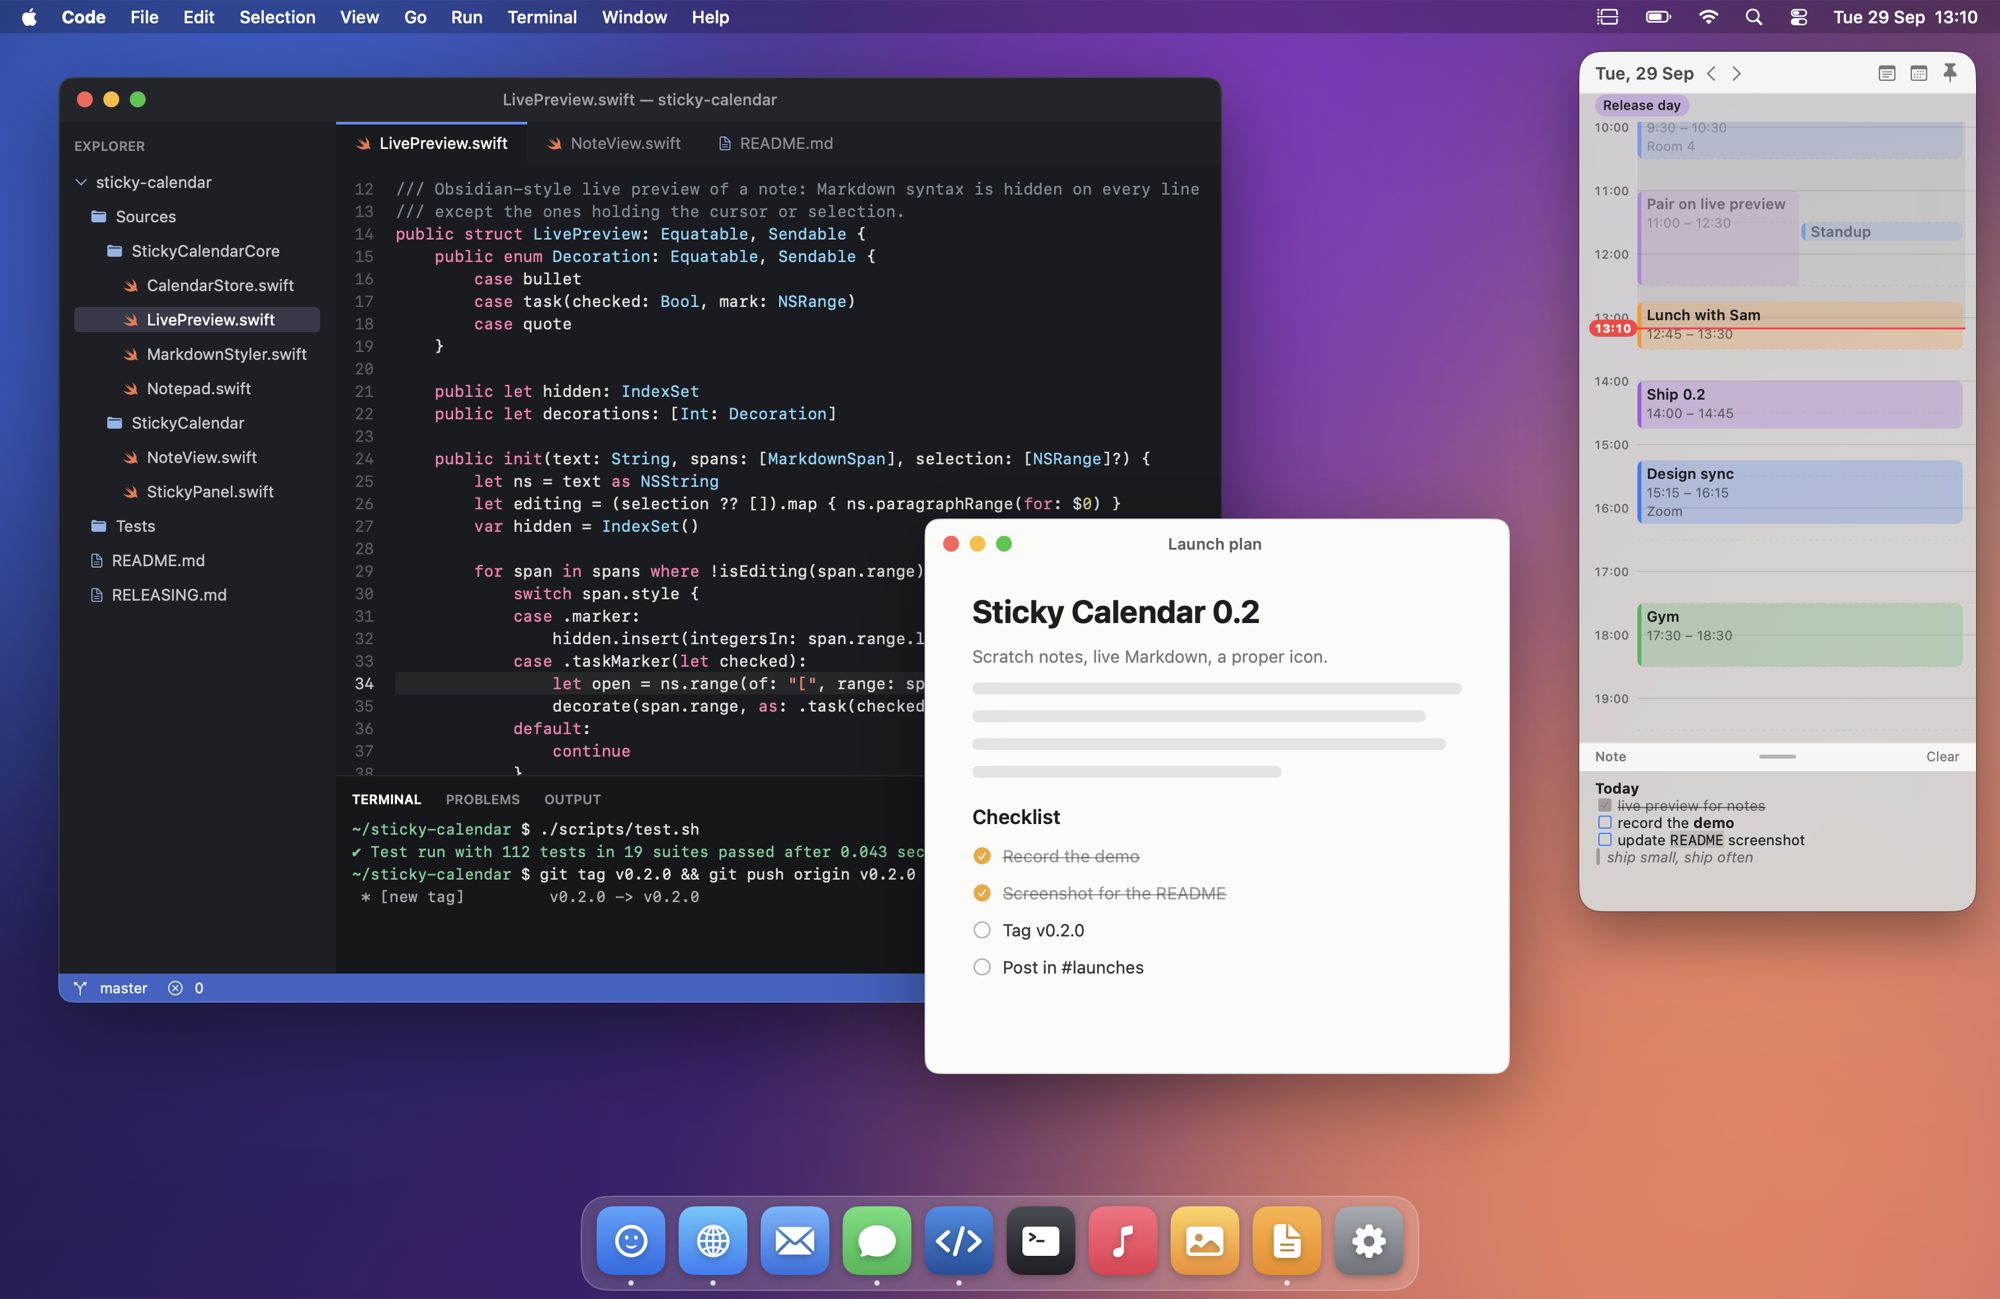
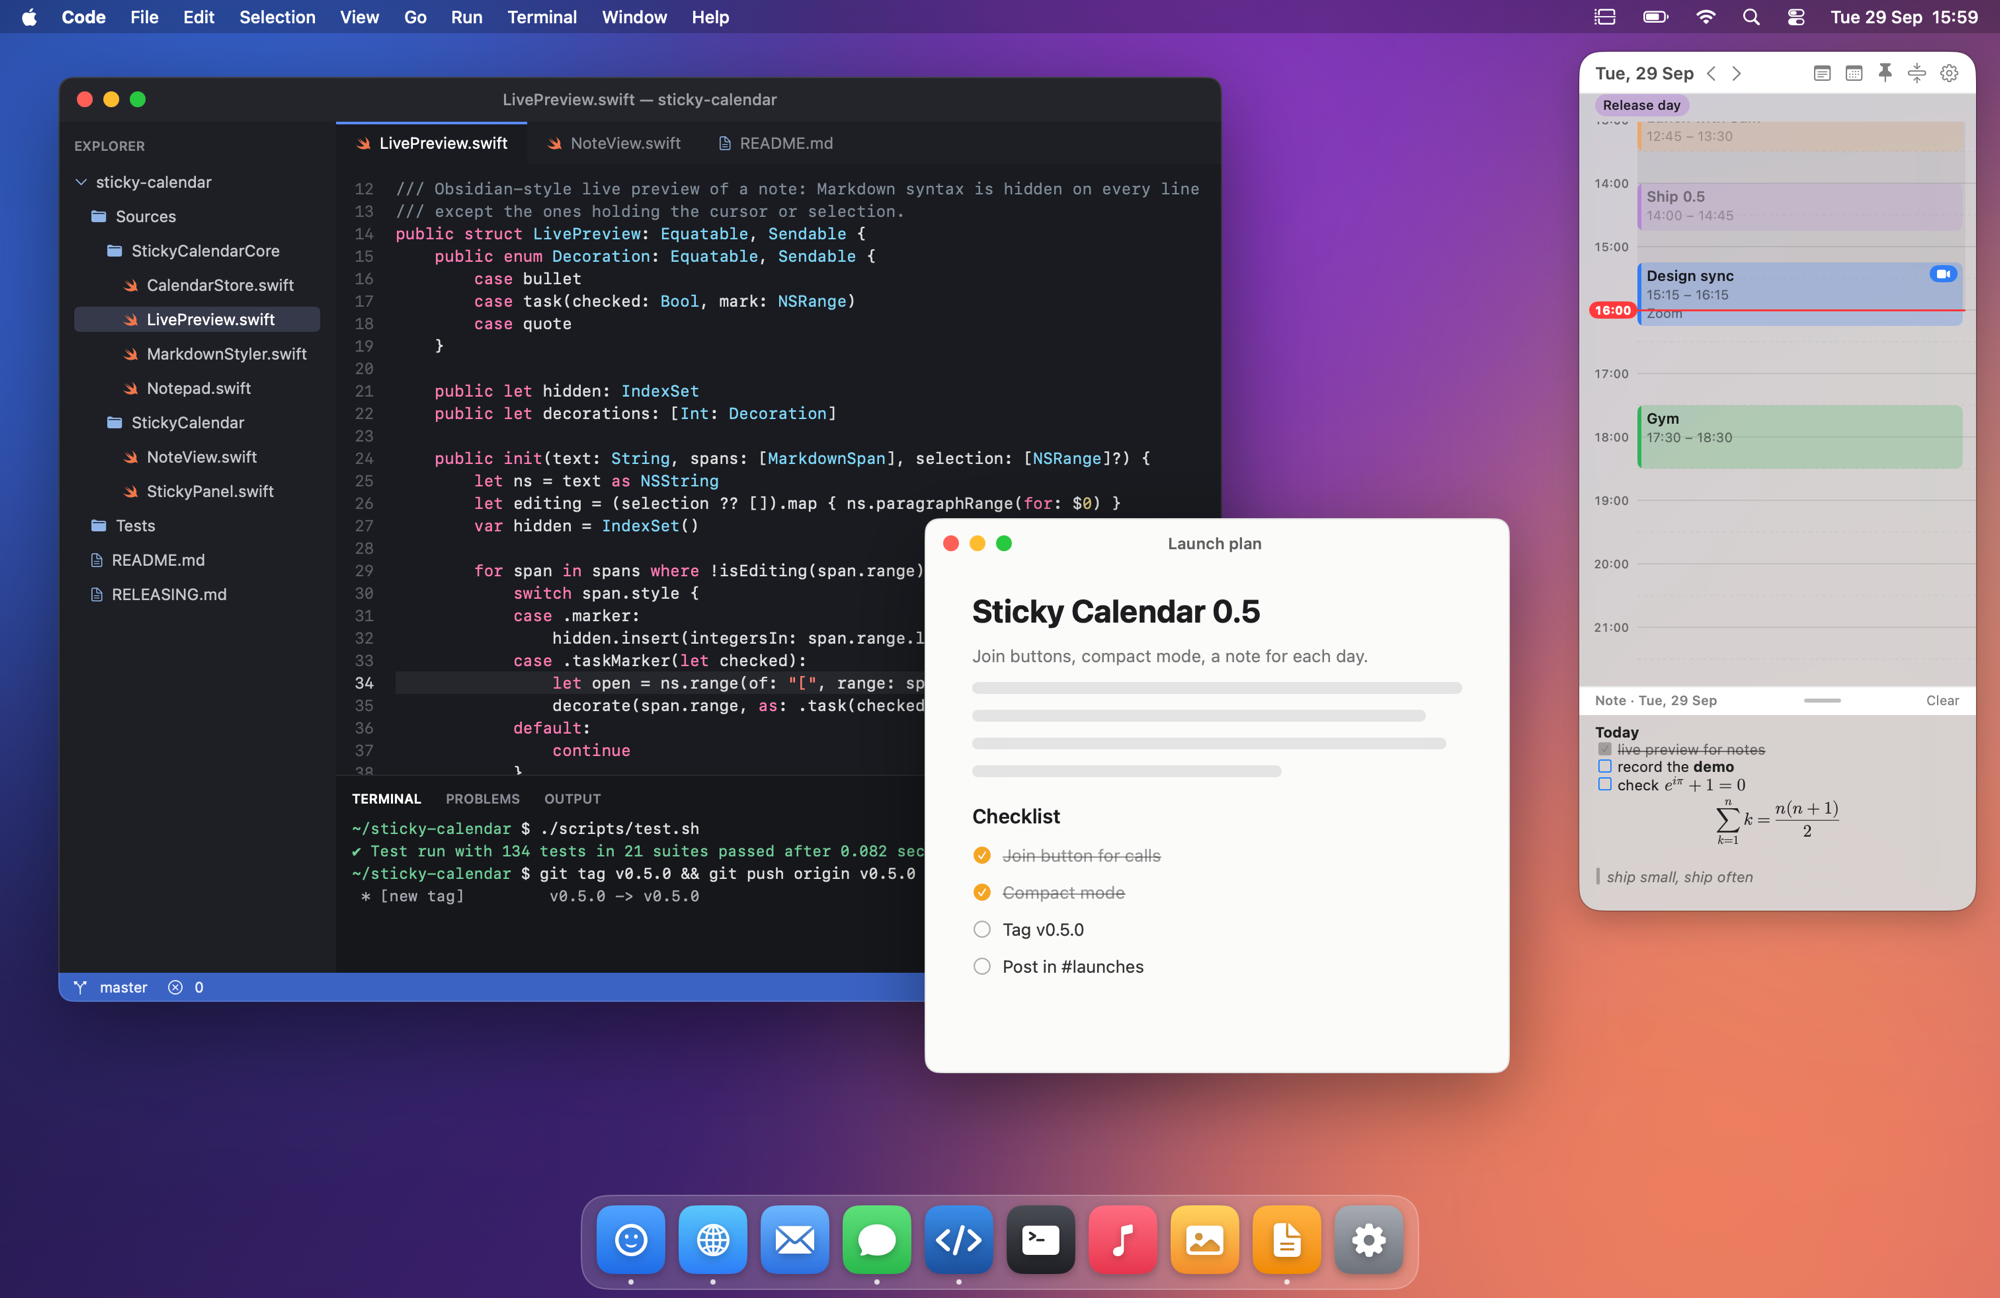
README: screenshots for 0.5 (join button, per-day note, math) and compact mode

diff --git a/README.md b/README.md
@@ -11,7 +11,7 @@ A tiny menu-bar app that shows the day's calendar as a floating, always-on-top t
 
 <picture>
   <source media="(prefers-color-scheme: dark)" srcset="docs/images/sticky-dark.png">
-  <img src="docs/images/sticky-light.png" align="right" width="240" alt="Close-up of the sticky: timeline with events, the red now-line, and a note with checkboxes">
+  <img src="docs/images/sticky-light.png" align="right" width="240" alt="Close-up of the sticky: timeline with events, a join button on a video call, the red now-line, and the day's note with checkboxes and math">
 </picture>
 
 Scroll through the day (48 pt per hour — a taller window shows more hours); the red
@@ -33,6 +33,14 @@ Keyboard: ←/→ change day; ↑/↓ move between events (or scroll when none i
 Page Up/Down scroll; Return edits the selected event; Esc deselects.
 
 <br clear="right">
+
+<p align="center">
+  <picture>
+    <source media="(prefers-color-scheme: dark)" srcset="docs/images/compact-dark.png">
+    <img src="docs/images/compact-light.png" width="300" alt="Compact mode: just the header and the event on now, with a button to join its video call">
+  </picture>
+  <br><sub>Compact mode (⌘M): just what's on now or next.</sub>
+</p>
 
 ## Install
 
